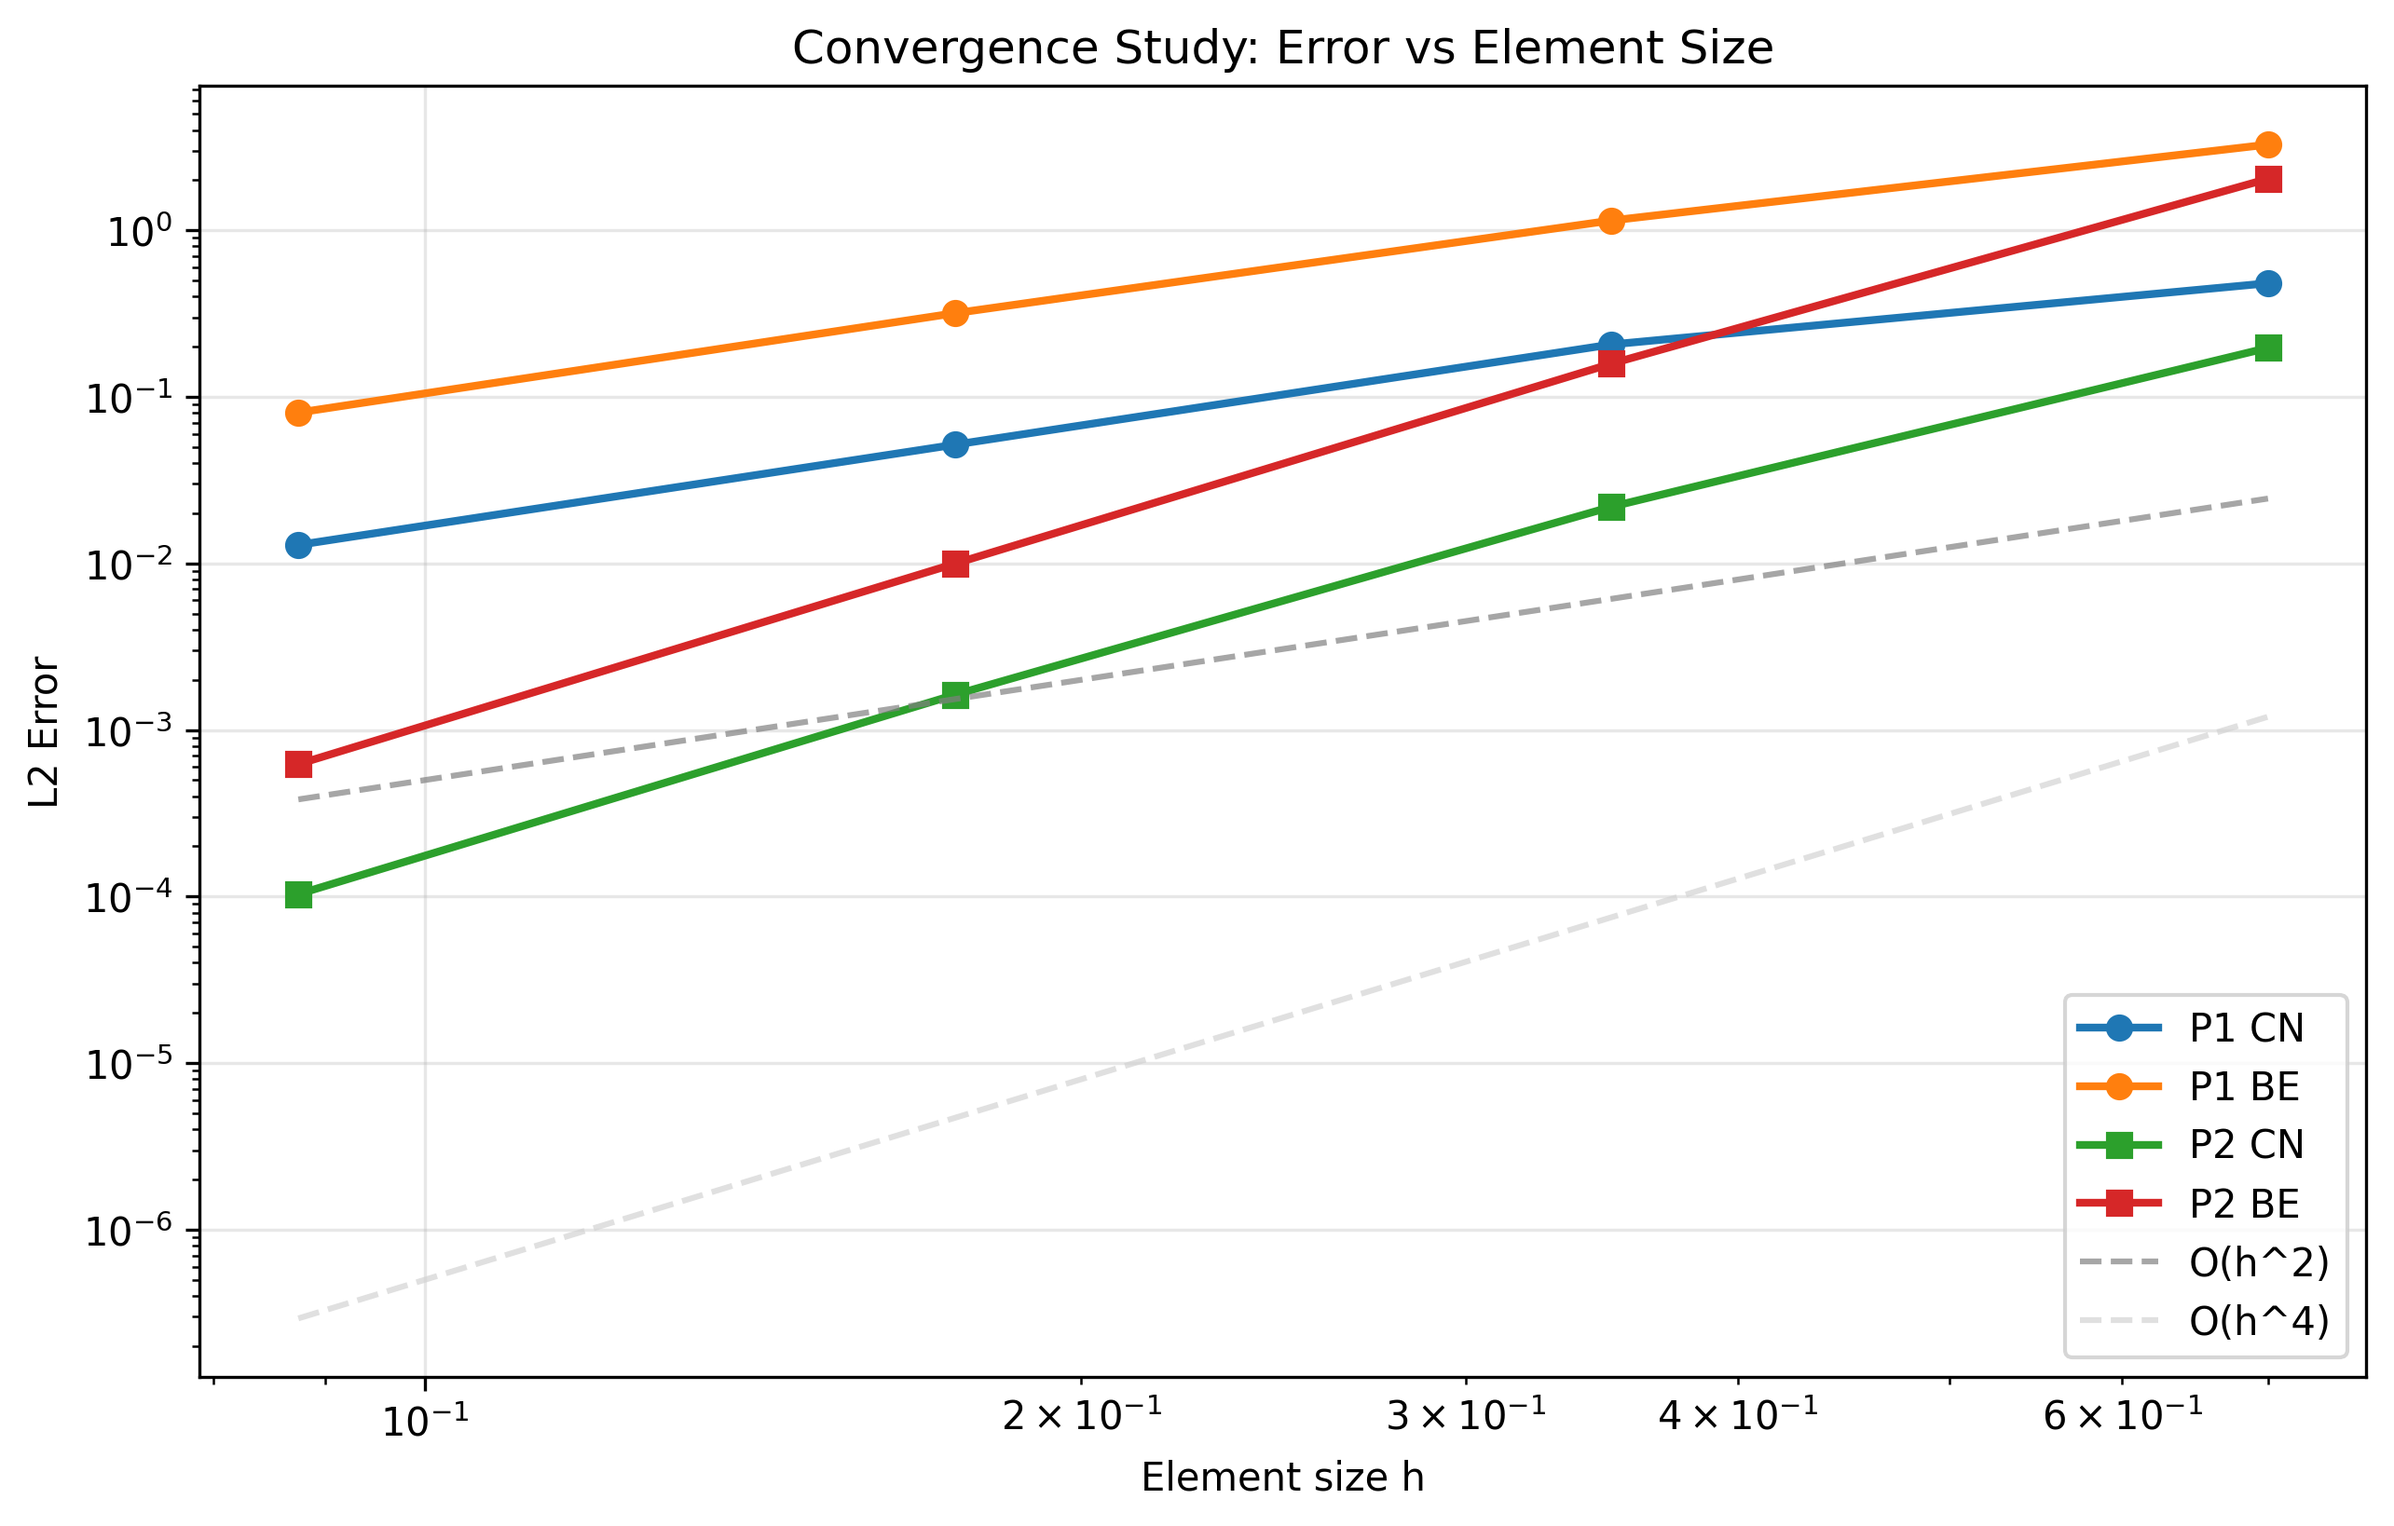
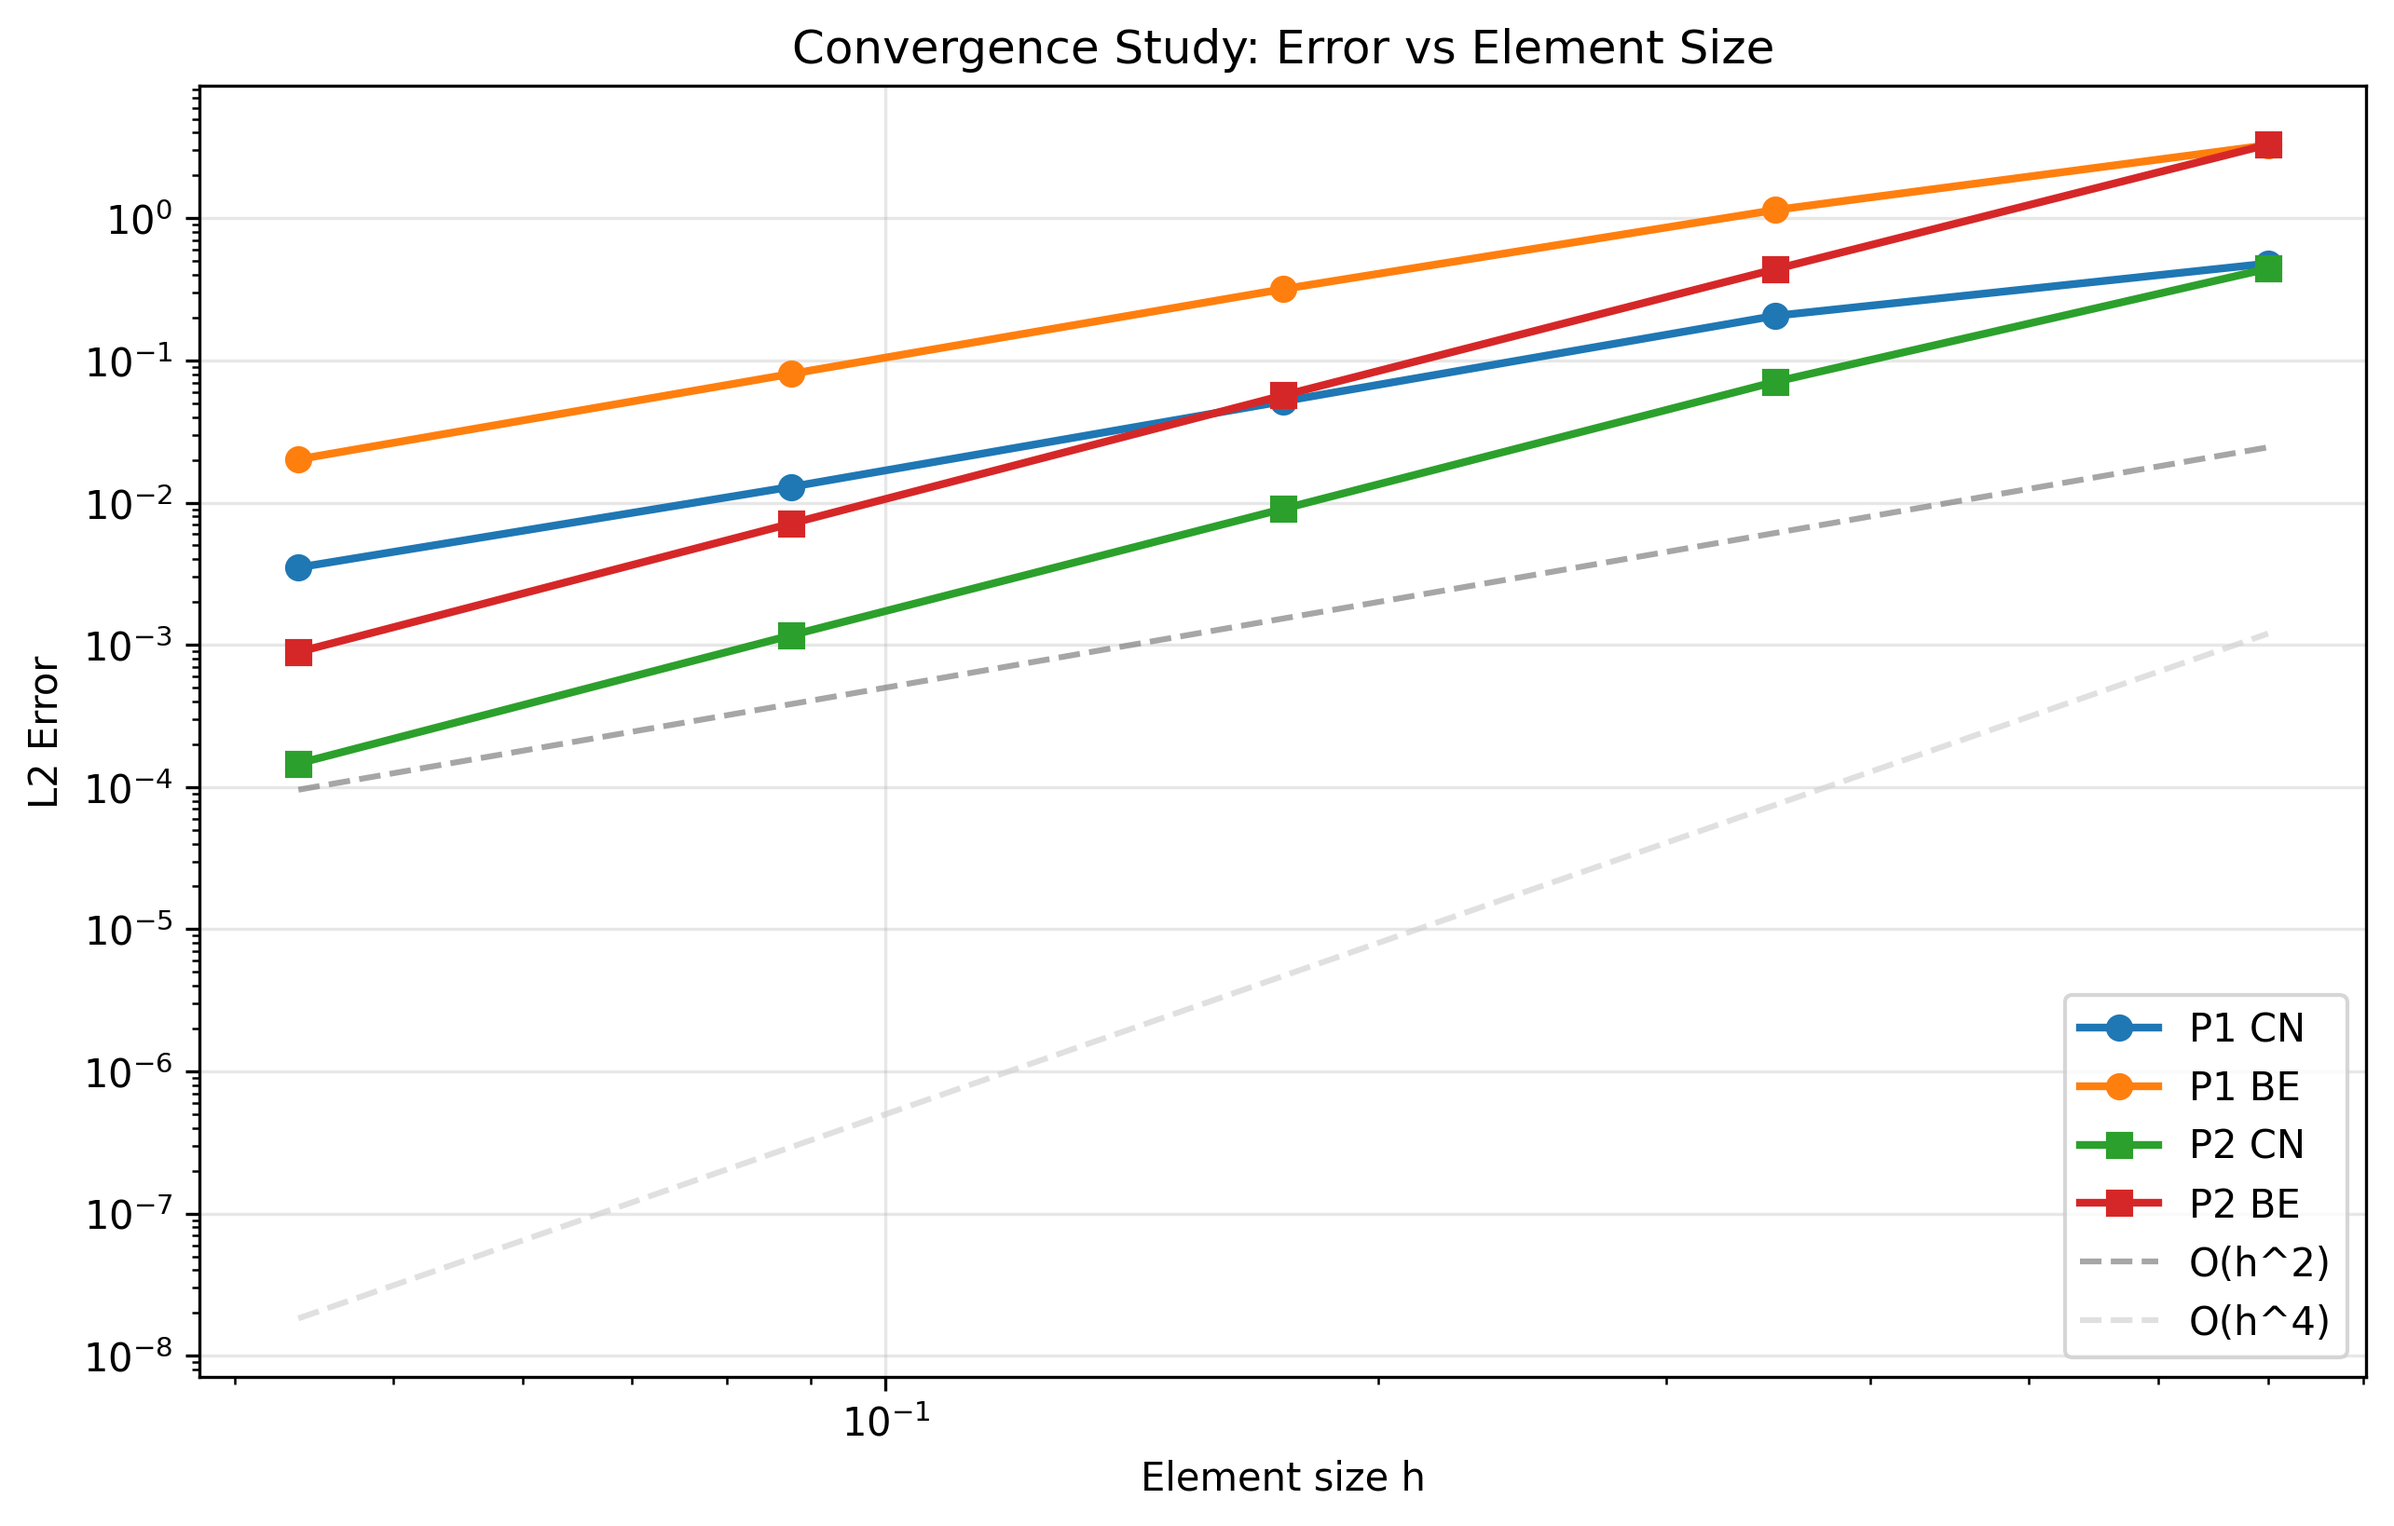
Added another point for convergence plots

diff --git a/code/main.py b/code/main.py
@@ -10,8 +10,8 @@ from fem_solver import FEMSolver
 from black_scholes_pde import *
 
 # Flags to control which parts of the code to run
-COMPUTE_EXAMPLE_1 = False
-COMPUTE_EXAMPLE_2 = False
+COMPUTE_EXAMPLE_1 = True
+COMPUTE_EXAMPLE_2 = True
 COMPUTE_ANALYTICAL = True
 # The convergence study is computationally expensive, so it can be disabled
 COMPUTE_CONVERGENCE_STUDY = True
@@ -309,7 +309,7 @@ def plot_convergence_errors(h_errors_dict, title="Convergence Study: Error vs El
     plt.xlabel('Element size h')
     plt.ylabel('L2 Error')
     plt.title(title)
-    plt.legend()
+    plt.legend(loc='lower right')
     plt.grid(True, alpha=0.3)
     if filename:
         plt.savefig(filename, dpi=300, bbox_inches='tight')
@@ -353,7 +353,7 @@ if __name__ == "__main__":
         
         # Run convergence study to see the error vs. h curve
         if COMPUTE_CONVERGENCE_STUDY:
-            element_counts = [10 * 2**i for i in range(0, 4)]
+            element_counts = [10 * 2**i for i in range(0, 5)]
             h_errors_dict = {}
             # P1 CN
             h1, e1 = convergence_study(pde, element_counts, schema='CN', element_type='P1', dt_h_power=1, dt_h_factor=1.0, numb_quad_points=5)
@@ -362,10 +362,10 @@ if __name__ == "__main__":
             h2, e2 = convergence_study(pde, element_counts, schema='BE', element_type='P1', dt_h_power=2, dt_h_factor=1.0, numb_quad_points=5)
             h_errors_dict['P1 BE'] = (h2, e2)
             # P2 CN
-            h3, e3 = convergence_study(pde, element_counts, schema='CN', element_type='P2', dt_h_power=2, dt_h_factor=1.0, numb_quad_points=5)
+            h3, e3 = convergence_study(pde, element_counts, schema='CN', element_type='P2', dt_h_power=3/2, dt_h_factor=1.0, numb_quad_points=5)
             h_errors_dict['P2 CN'] = (h3, e3)
             # P2 BE
-            h4, e4 = convergence_study(pde, element_counts, schema='BE', element_type='P2', dt_h_power=4, dt_h_factor=1.0, numb_quad_points=5)
+            h4, e4 = convergence_study(pde, element_counts, schema='BE', element_type='P2', dt_h_power=3, dt_h_factor=1.0, numb_quad_points=5)
             h_errors_dict['P2 BE'] = (h4, e4)
             plot_convergence_errors(h_errors_dict, filename=f"./code/images/convergence_study_{pde.__class__.__name__}.png")
         
@@ -407,7 +407,7 @@ if __name__ == "__main__":
         
         # Run convergence study to see the error vs. h curve
         if COMPUTE_CONVERGENCE_STUDY:
-            element_counts = [10 * 2**i for i in range(0, 4)]
+            element_counts = [10 * 2**i for i in range(0, 5)]
             h_errors_dict = {}
             # P1 CN
             h1, e1 = convergence_study(pde, element_counts, schema='CN', element_type='P1', dt_h_power=1, dt_h_factor=1.0)
@@ -416,10 +416,10 @@ if __name__ == "__main__":
             h2, e2 = convergence_study(pde, element_counts, schema='BE', element_type='P1', dt_h_power=2, dt_h_factor=1.0)
             h_errors_dict['P1 BE'] = (h2, e2)
             # P2 CN
-            h3, e3 = convergence_study(pde, element_counts, schema='CN', element_type='P2', dt_h_power=2, dt_h_factor=1.0)
+            h3, e3 = convergence_study(pde, element_counts, schema='CN', element_type='P2', dt_h_power=3/2, dt_h_factor=1.0)
             h_errors_dict['P2 CN'] = (h3, e3)
             # P2 BE
-            h4, e4 = convergence_study(pde, element_counts, schema='BE', element_type='P2', dt_h_power=4, dt_h_factor=1.0)
+            h4, e4 = convergence_study(pde, element_counts, schema='BE', element_type='P2', dt_h_power=3, dt_h_factor=1.0)
             h_errors_dict['P2 BE'] = (h4, e4)
             plot_convergence_errors(h_errors_dict, filename=f"./code/images/convergence_study_{pde.__class__.__name__}.png")
         
@@ -444,7 +444,7 @@ if __name__ == "__main__":
         
         # Run convergence study to see the error vs. h curve
         if COMPUTE_CONVERGENCE_STUDY:
-            element_counts = [200 * 2**i for i in range(0, 4)]
+            element_counts = [200 * 2**i for i in range(0, 5)]
             h_errors_dict = {}
             # P1 CN
             h1, e1 = convergence_study(pde, element_counts, schema='CN', element_type='P1', dt_h_power=1, dt_h_factor=1.0, numb_quad_points=5)
@@ -453,10 +453,10 @@ if __name__ == "__main__":
             h2, e2 = convergence_study(pde, element_counts, schema='BE', element_type='P1', dt_h_power=2, dt_h_factor=1.0, numb_quad_points=5)
             h_errors_dict['P1 BE'] = (h2, e2)
             # P2 CN
-            h3, e3 = convergence_study(pde, element_counts, schema='CN', element_type='P2', dt_h_power=2, dt_h_factor=1.0, numb_quad_points=5)
+            h3, e3 = convergence_study(pde, element_counts, schema='CN', element_type='P2', dt_h_power=3/2, dt_h_factor=1.0, numb_quad_points=5)
             h_errors_dict['P2 CN'] = (h3, e3)
             # P2 BE
-            h4, e4 = convergence_study(pde, element_counts, schema='BE', element_type='P2', dt_h_power=4, dt_h_factor=1.0, numb_quad_points=5)
+            h4, e4 = convergence_study(pde, element_counts, schema='BE', element_type='P2', dt_h_power=3, dt_h_factor=1.0, numb_quad_points=5)
             h_errors_dict['P2 BE'] = (h4, e4)
             plot_convergence_errors(h_errors_dict, filename=f"./code/images/convergence_study_{pde.__class__.__name__}.png")
         
